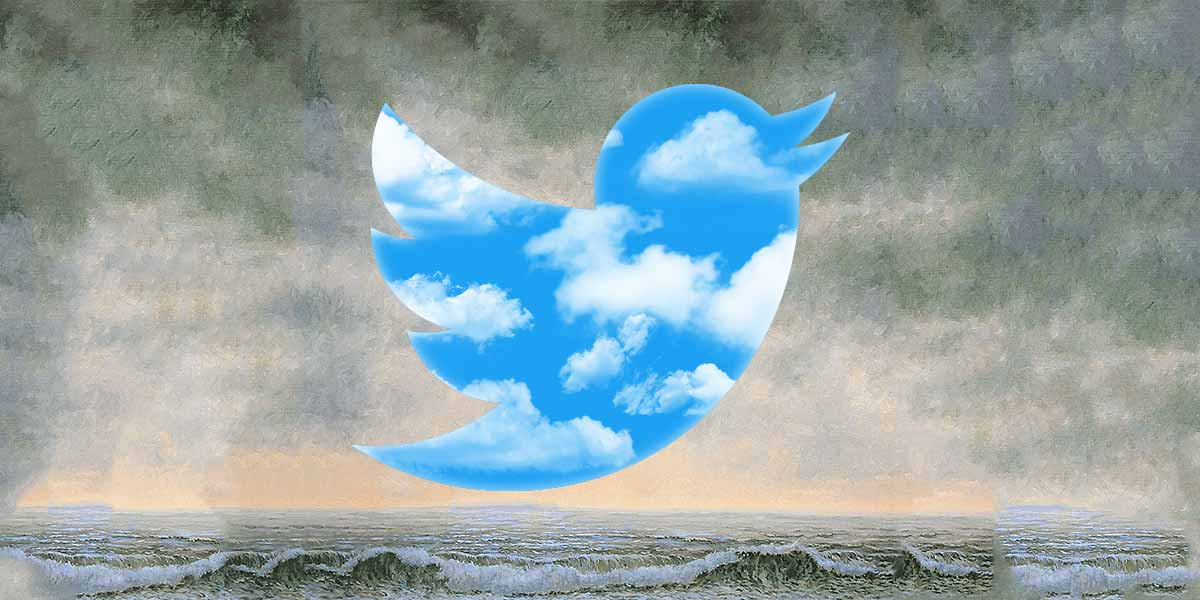
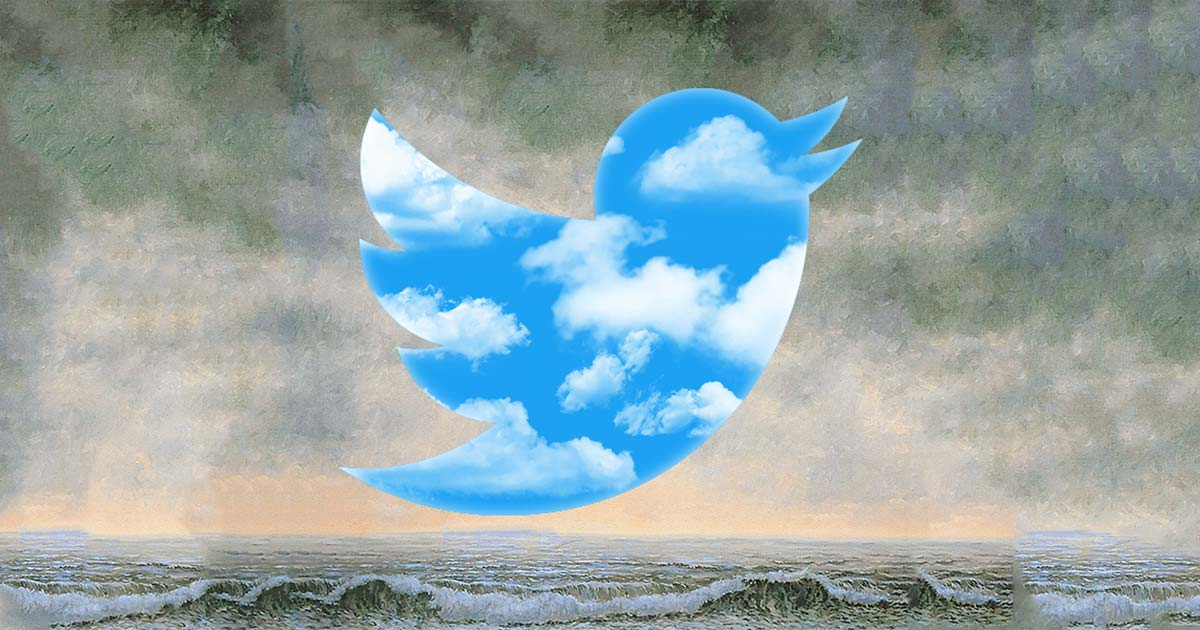
fix ogp

diff --git a/docs/2017/index.html b/docs/2017/index.html
@@ -15,6 +15,8 @@
     <meta property="fb:app_id" content="1025731387449767">
     <meta property="og:url" content="https://butchi.github.io/nenga/2017/">
     <meta property="og:image" content="https://butchi.github.io/nenga/2017/ogp.jpg">
+    <meta property="og:image:width" content="1200">
+    <meta property="og:image:height" content="630">
     <meta property="og:type" content="website">
     <meta property="og:title" content="謹賀新年2017">
     <meta property="og:site_name" content="謹賀新年2017">
